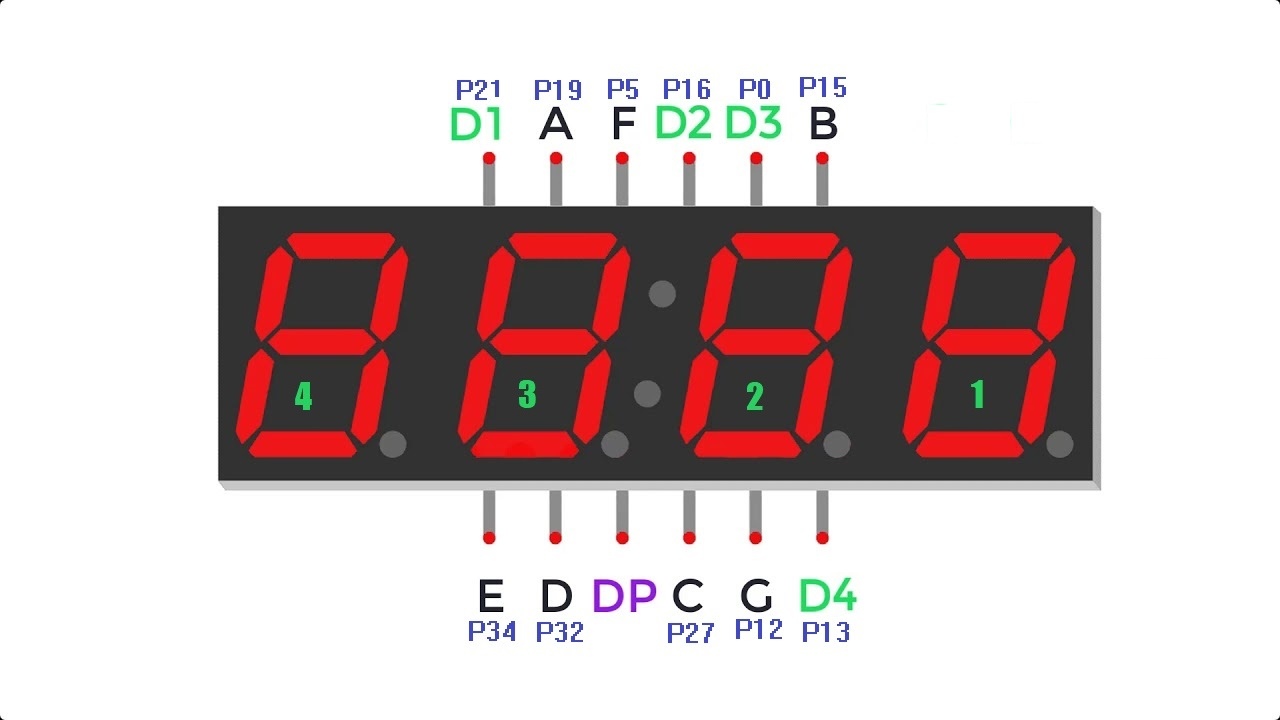
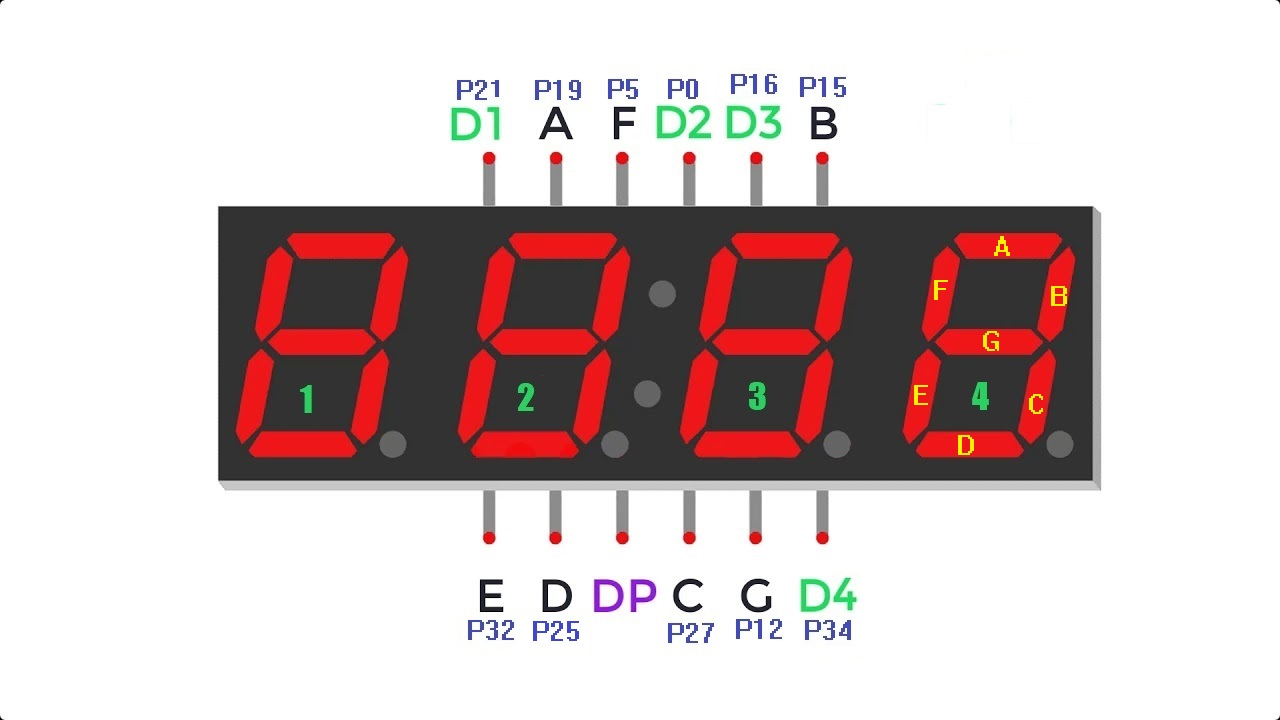
working led showing number properly

diff --git a/README.md b/README.md
@@ -1,2 +1,5 @@
 # cosmos
 Completly Omnipotent Sport Motivation Optical System - (i.e. a nice thingy to count door passes)
+
+
+Pin 13 is dead due to resistor
